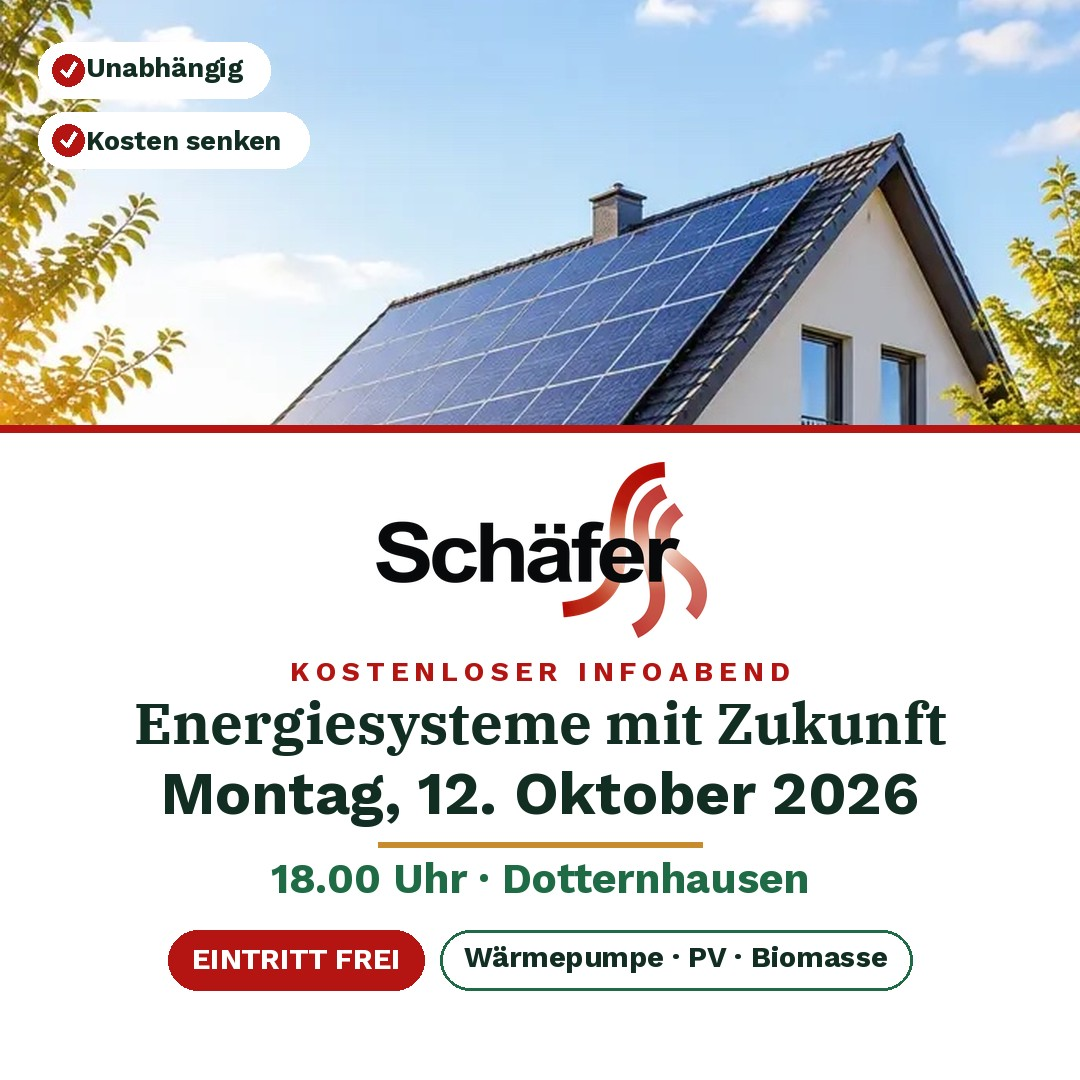
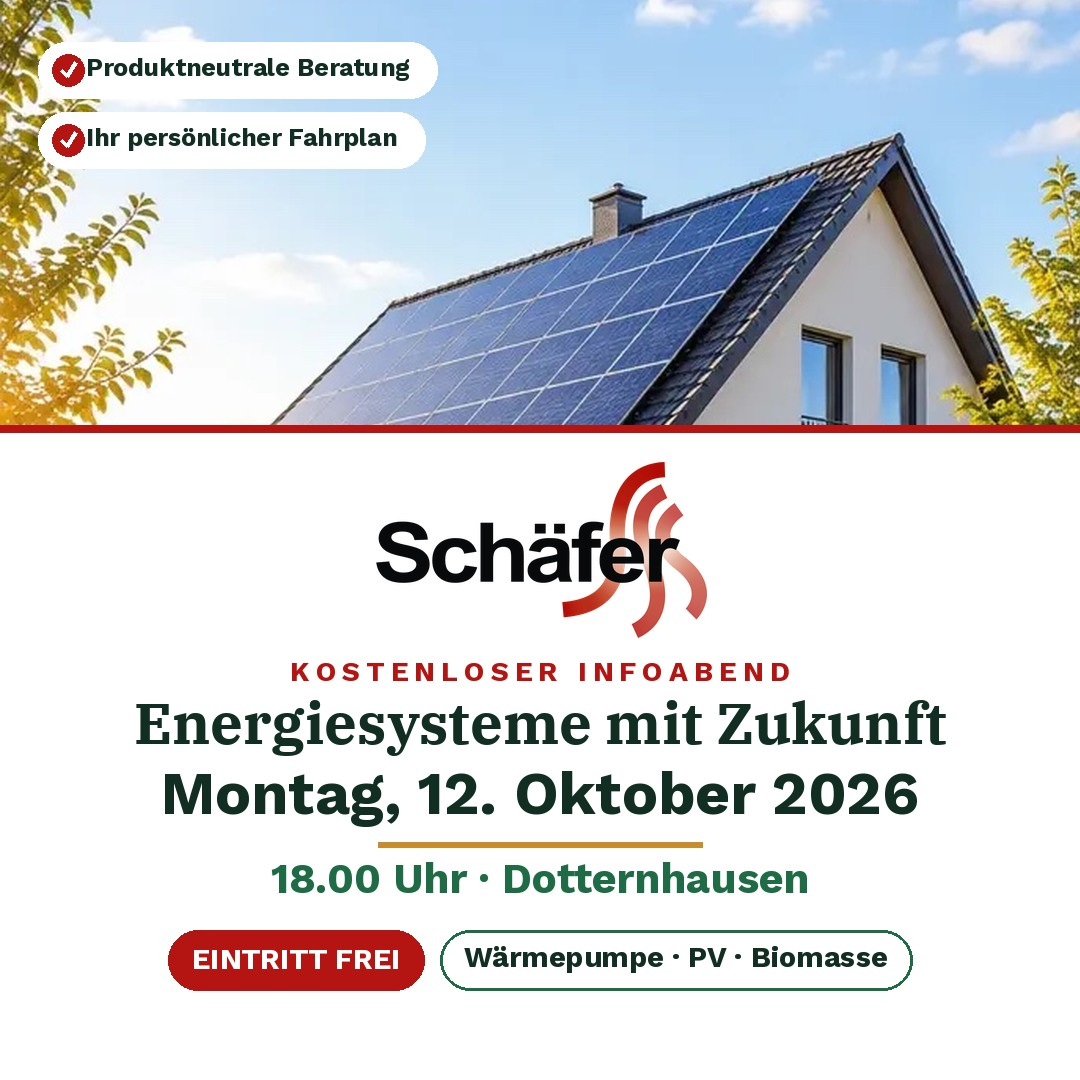
Event-Creative: Stichpunkte 'warum hingehen' (Produktneutrale Beratung / Persoenlicher Fahrplan)
Claude-Session: https://claude.ai/code/session_0195Z1PjpkPHucqAk5ooUwCA

Changed region(s): [[0.0917, 0.0306, 0.4278, 0.1833]]

diff --git a/tools_overlay_event.py b/tools_overlay_event.py
@@ -44,7 +44,7 @@ def make(size,frac,out):
     d=ImageDraw.Draw(canvas)
     # Schlagwort-Badges oben links auf dem Foto
     def badge(x,y,text):
-        bf=ImageFont.truetype(SANS,int(27*u)); tw=d.textlength(text,font=bf)
+        bf=ImageFont.truetype(SANS,int(25*u)); tw=d.textlength(text,font=bf)
         chk=int(48*u); pw=chk+tw+int(28*u); bh=int(56*u)
         d.rounded_rectangle([x,y,x+pw,y+bh],radius=bh//2,fill=(255,255,255))
         cxc=x+int(30*u); cyc=y+bh//2; r=int(16*u)
@@ -53,8 +53,8 @@ def make(size,frac,out):
         bb=d.textbbox((0,0),text,font=bf); d.text((x+chk,cyc-(bb[3]-bb[1])/2-bb[1]),text,font=bf,fill=INK)
         return bh
     bx=int(38*u); by=int(42*u)
-    h1=badge(bx,by,"Unabhängig")
-    badge(bx,by+h1+int(14*u),"Kosten senken")
+    h1=badge(bx,by,"Produktneutrale Beratung")
+    badge(bx,by+h1+int(14*u),"Ihr persönlicher Fahrplan")
     # Markenkante an der Naht
     d.rectangle([0,ph-max(4,int(7*u)),W,ph],fill=RED)
     cx=W//2; y=ph+int(30*u)
